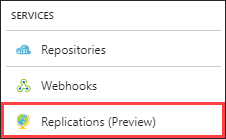
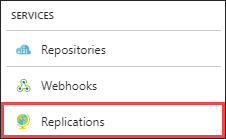
[ACR] geo-replication: remove preview

Changed region(s): [[0.4646, 0.8345, 0.7124, 0.9209]]

diff --git a/articles/container-registry/container-registry-geo-replication.md b/articles/container-registry/container-registry-geo-replication.md
@@ -7,18 +7,12 @@ manager: timlt
 
 ms.service: container-registry
 ms.topic: overview-article
-ms.date: 10/24/2017
+ms.date: 04/10/2018
 ms.author: stevelas
 ---
 # Geo-replication in Azure Container Registry
 
-Companies that want a local presence, or a hot backup, choose to run services from multiple Azure regions. As a best practice, placing a container registry in each region where images are run allows network-close operations, enabling fast, reliable image layer transfers.
-
-Geo-replication enables an Azure container registry to function as a single registry, serving multiple regions with multi-master regional registries.
-
-> [!IMPORTANT]
-> The geo-replication feature of Azure Container Registry is currently in **preview**. Previews are made available to you on the condition that you agree to the  [supplemental terms of use](https://azure.microsoft.com/support/legal/preview-supplemental-terms/). Some aspects of this feature may change prior to general availability (GA).
->
+Companies that want a local presence, or a hot backup, choose to run services from multiple Azure regions. As a best practice, placing a container registry in each region where images are run allows network-close operations, enabling fast, reliable image layer transfers. Geo-replication enables an Azure container registry to function as a single registry, serving multiple regions with multi-master regional registries.
 
 A geo-replicated registry provides the following benefits:
 

diff --git a/articles/container-registry/container-registry-best-practices.md b/articles/container-registry/container-registry-best-practices.md
@@ -7,7 +7,7 @@ manager: timlt
 
 ms.service: container-registry
 ms.topic: quickstart
-ms.date: 12/20/2017
+ms.date: 04/10/2018
 ms.author: marsma
 ---
 
@@ -24,7 +24,7 @@ Additionally, all public clouds, Azure included, implement network egress fees. 
 
 ## Geo-replicate multi-region deployments
 
-Use Azure Container Registry's [geo-replication](container-registry-geo-replication.md) feature if you're deploying containers to multiple regions. Whether you're serving global customers from local data centers or your development team is in different locations, you can simplify registry management and minimize latency by geo-replicating your registry. Currently in preview, this feature is available with [Premium](container-registry-skus.md) registries.
+Use Azure Container Registry's [geo-replication](container-registry-geo-replication.md) feature if you're deploying containers to multiple regions. Whether you're serving global customers from local data centers or your development team is in different locations, you can simplify registry management and minimize latency by geo-replicating your registry. Geo-replication is available only with [Premium](container-registry-skus.md) registries.
 
 To learn how to use geo-replication, see the three-part tutorial, [Geo-replication in Azure Container Registry](container-registry-tutorial-prepare-registry.md).
 

diff --git a/articles/container-registry/container-registry-tutorial-prepare-registry.md b/articles/container-registry/container-registry-tutorial-prepare-registry.md
@@ -7,7 +7,7 @@ manager: timlt
 
 ms.service: container-registry
 ms.topic: tutorial
-ms.date: 10/26/2017
+ms.date: 04/10/2018
 ms.author: marsma
 ms.custom: mvc
 ---
@@ -35,10 +35,6 @@ This tutorial assumes a basic understanding of core Docker concepts such as cont
 To complete this tutorial, you need a Docker development environment. Docker provides packages that easily configure Docker on any [Mac](https://docs.docker.com/docker-for-mac/), [Windows](https://docs.docker.com/docker-for-windows/), or [Linux](https://docs.docker.com/engine/installation/#supported-platforms) system.
 
 Azure Cloud Shell does not include the Docker components required to complete every step this tutorial. Therefore, we recommend a local installation of the Azure CLI and Docker development environment.
-
-> [!IMPORTANT]
-> The geo-replication feature of Azure Container Registry is currently in **preview**. Previews are made available to you on the condition that you agree to the  [supplemental terms of use](https://azure.microsoft.com/support/legal/preview-supplemental-terms/). Some aspects of this feature may change prior to general availability (GA).
->
 
 ## Create a container registry
 

diff --git a/includes/container-registry-limits.md b/includes/container-registry-limits.md
@@ -6,7 +6,7 @@ author: mmacy
 
 ms.service: container-registry
 ms.topic: include
-ms.date: 03/23/2018
+ms.date: 04/10/2018
 ms.author: marsma
 ms.custom: include file
 ---
@@ -19,7 +19,7 @@ ms.custom: include file
 | Download bandwidth MBps<sup>1</sup> | 30 | 60 | 100 |
 | Upload bandwidth MBps<sup>1</sup> | 10 | 20 | 50 |
 | Webhooks | 2 | 10 | 100 |
-| Geo-replication | N/A | N/A | [Supported *(preview)*](https://docs.microsoft.com/azure/container-registry/container-registry-geo-replication) |
+| Geo-replication | N/A | N/A | [Supported](https://docs.microsoft.com/azure/container-registry/container-registry-geo-replication) |
 
 <sup>1</sup> *ReadOps*, *WriteOps*, and *Bandwidth* are minimum estimates. ACR strives to improve performance as usage requires.
 
